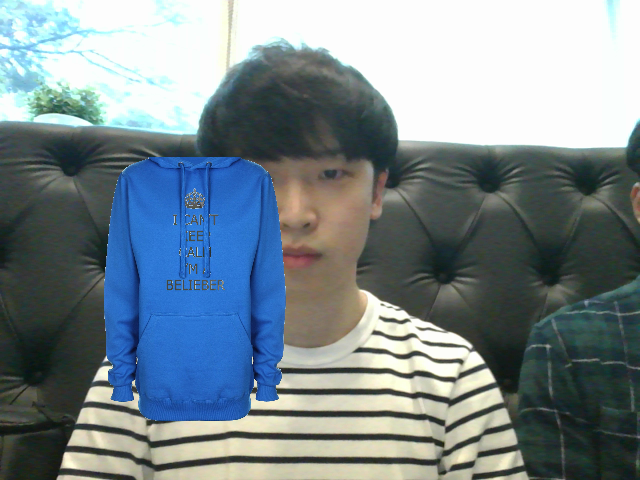
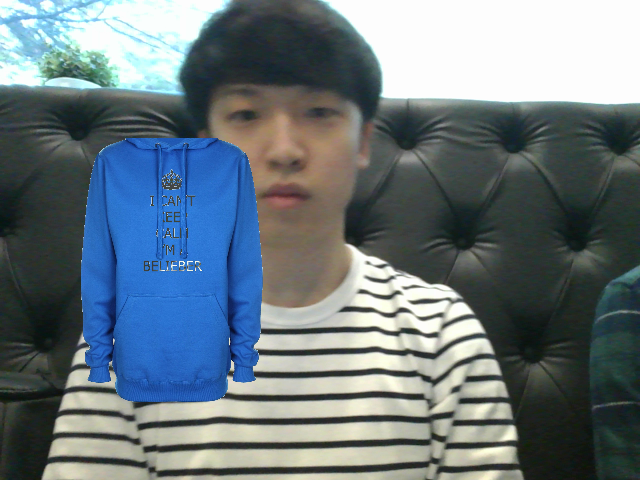
take picture

diff --git a/project/UI_Recommend.py b/project/UI_Recommend.py
@@ -13,10 +13,11 @@ import label_image
 def Third_Menu(title,cap):
     #cap = cv2.VideoCapture(0)
     # Icon = ['T-Shirt.jpg','Y-Shirt.png','Hood.jpg']
-    bottomLeftCornerOfText_Title = (300,20)
+    bottomLeftCornerOfText_Title = (300,200)
     bodyCascade = cv2.CascadeClassifier('haarcascade_mcs_upperbody.xml')
 
     check = 0
+    count = 0
     kinds = title.split("_")[0][0]
     if(kinds == 'h'):
         clothes = ['hood-t_black_NIKE_M_9800_.png', 'hood-t_blue_NIKE_M_7000_.png', 'hood-t_gray_NIKE_M_7000_.png', 'hood-t_white_NIKE_M_7000_.png', 'hood-t_beige_NIKE_M_7000_.png']
@@ -25,7 +26,7 @@ def Third_Menu(title,cap):
     else:
         clothes = ['y-shirt_black_GUZZI_M_7500_.png', 'y-shirt_blue_NIKE_M_7000_.png', 'y-shirt_gray_NIKE_M_7000_.png', 'y-shirt_white_NIKE_M_7000_.png', 'y-shirt_beige_NIKE_M_7000_.png']
 
-    while (check<10):
+    while (count<10):
         ret, frame = cap.read()
         #frame_copy = frame.copy()
         img = cv2.flip(frame,1)
@@ -44,7 +45,7 @@ def Third_Menu(title,cap):
             #cv2.imshow('video2', frame_roi)
             if(check == 0):
                 Picture = img
-                cv2.imshow('picture', Picture)
+                #cv2.imshow('picture', Picture)
 
                 cv2.imwrite('original.png',img)
 
@@ -53,9 +54,8 @@ def Third_Menu(title,cap):
             
                         
         cv2.imshow('video', img)
-        check = check +1
 
-        if(check == 10):
+        if(check == 1):
             cv2.putText(img,'loading```````',
                     bottomLeftCornerOfText_Title,
                     cv2.FONT_HERSHEY_SIMPLEX,
@@ -64,6 +64,7 @@ def Third_Menu(title,cap):
                     2)
             
             best_color = label_image.Reco(title,body,clothes)
+            count = 10
 
         if cv2.waitKey(1) & 0xFF == ord('q'):  # q 입력시 종료
             break
